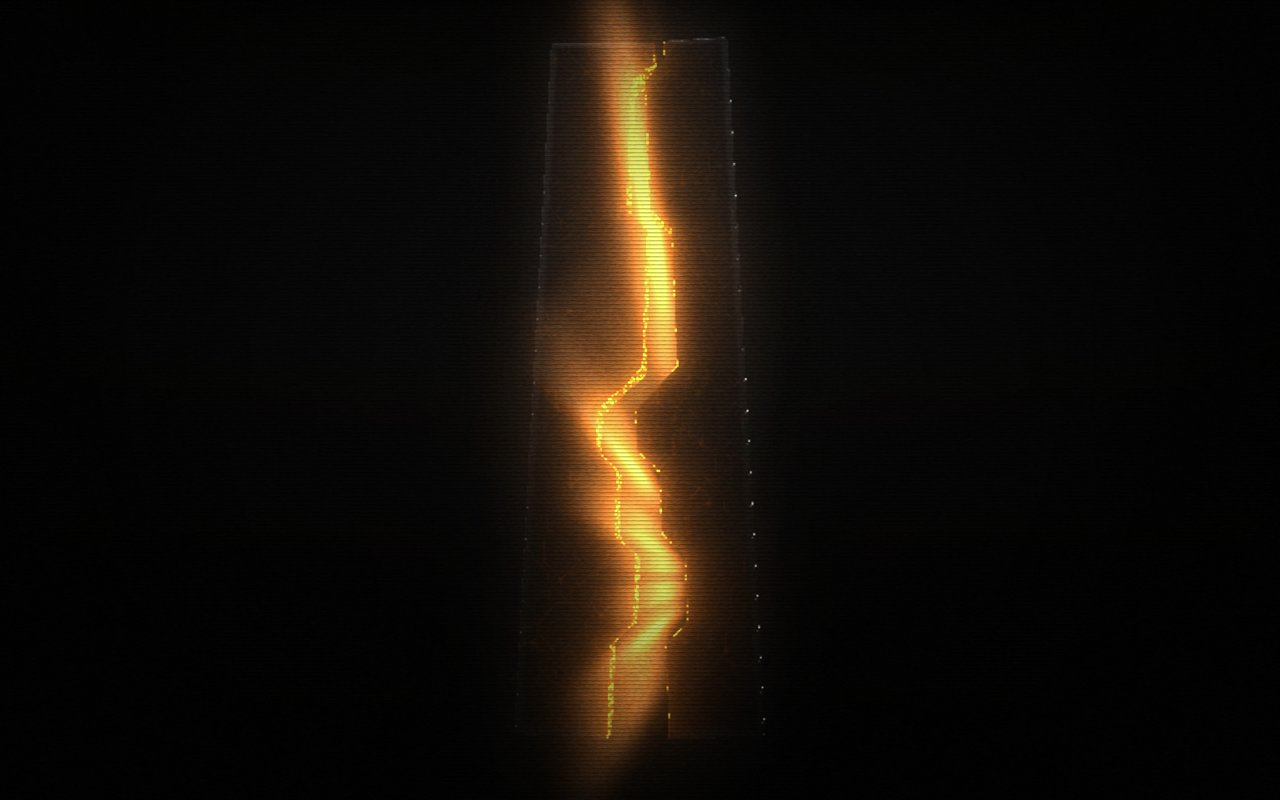
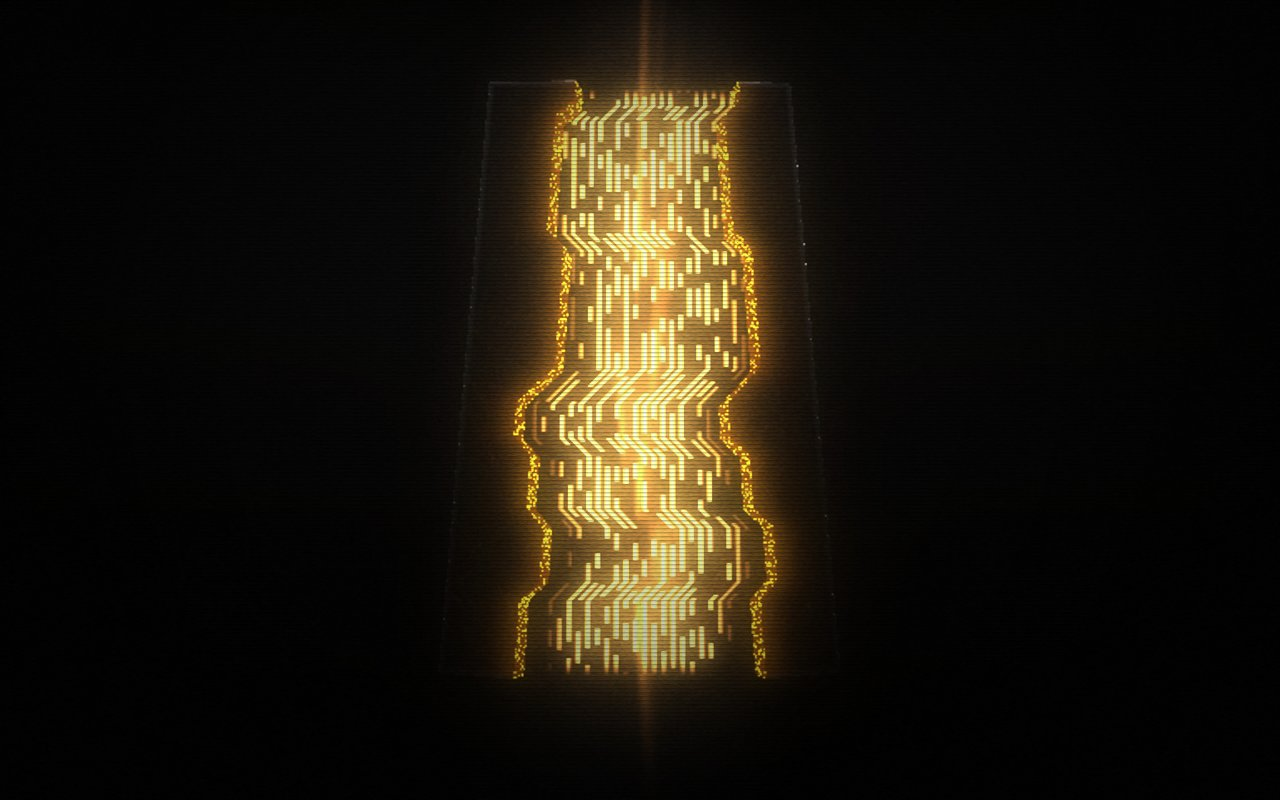
Grieta: apertura más grande (mitades que giran como puertas y cascada de datos en la herida) y miniatura
Claude-Session: https://claude.ai/code/session_01PHyPu7RkDzX2ru9pxXtJdV

Changed region(s): [[0.375, 0.0, 0.625, 1.0]]

diff --git a/lab-31-grieta/index.html b/lab-31-grieta/index.html
@@ -461,7 +461,7 @@ canvas{width:100vw;height:100vh;display:block}
   const FS = `#version 300 es
   precision highp float; in vec2 vUv; out vec4 o;
   uniform vec2 uRes, uShift; uniform vec3 uCam, uTgt, uB;
-  uniform float uSpot, uFov, uSep, uTilt, uRot, uMainY, uMainI, uGlow, uGap, uKey, uEnvA, uSeed, uTime, uFog;
+  uniform float uYaw, uSpot, uFov, uSep, uTilt, uRot, uMainY, uMainI, uGlow, uGap, uKey, uEnvA, uSeed, uTime, uFog;
   const vec3 AMB = vec3(1.0, 0.42, 0.05);
   float tri(float x){ return abs(fract(x) - 0.5) * 4. - 1.; }
   float hj(float i){ return fract(sin(i * 127.1 + 3.7) * 43758.5453); }
@@ -471,7 +471,7 @@ canvas{width:100vw;height:100vh;display:block}
   mat2 rot(float a){ float c = cos(a), s = sin(a); return mat2(c, -s, s, c); }
   vec3 toObj(vec3 p){ p.xz = rot(uRot) * p.xz; return p; }
   // dos mitades separadas por la grieta principal (zigzag). Devuelve dist, y en id: 0 piedra, 1 cara interior (fundida)
-  vec3 halfP(vec3 p, float sgn){ vec3 q = p - vec3(sgn * uSep, 0., 0.); q.xy = rot(sgn * uTilt) * q.xy; return q; }
+  vec3 halfP(vec3 p, float sgn){ vec3 q = p - vec3(sgn * uSep, 0., 0.); q.xz = rot(-sgn * uYaw) * q.xz; q.xy = rot(sgn * uTilt) * q.xy; return q; }
   float mapO(vec3 p, out float id, out vec3 qr){
     vec3 qa = halfP(p, -1.), qb = halfP(p, 1.);
     float ba = sdBox(qa, uB - 0.018) - 0.018, bb = sdBox(qb, uB - 0.018) - 0.018;
@@ -530,7 +530,7 @@ canvas{width:100vw;height:100vh;display:block}
     // niebla: haces de luz que salen por las grietas (y por la herida abierta)
     {
       // limita la marcha a una caja alrededor del monolito
-      vec3 bb = vec3(uB.x + 1.6 + uSep, 7.5, 2.4);
+      vec3 bb = vec3(uB.x + 1.6 + uSep * 1.6, 7.5, 3.2);
       vec3 inv = 1. / rd2, t0 = (-bb - ro2) * inv, t1 = (bb - ro2) * inv;
       vec3 tmn = min(t0, t1), tmx = max(t0, t1);
       float ta = max(max(tmn.x, tmn.y), max(tmn.z, 0.)), tb = min(min(tmx.x, tmx.y), min(tmx.z, tHit));
@@ -562,13 +562,31 @@ canvas{width:100vw;height:100vh;display:block}
           if (uGap > 0.001 && abs(s.y) < uB.y + 0.05) {
             float dx = abs(s.x - jag(s.y));
             float zz = max(az, 0.);
-            float wdt = uSep * (1. + zz * 0.12) + 0.003;
-            float sheet = smoothstep(wdt, wdt * 0.15, dx) * exp(-zz * 0.55) * smoothstep(uB.y + 0.05, uB.y - 0.2, abs(s.y));
+            float wdt = uSep * (0.85 + zz * 0.35) + 0.003;
+            float sheet = (smoothstep(wdt, wdt * 0.3, dx) * 0.11 / (0.2 + uSep) * 0.2 + smoothstep(0.012 + uSep * 0.04, 0., dx) * 0.55) * exp(-zz * 0.42) * smoothstep(uB.y + 0.25, uB.y - 0.3, abs(s.y));
+            float colb = 0.55 + 0.45 * step(0.35, fract(sin(floor((s.x - jag(s.y)) / 0.03) * 91.7 + floor(uTime * 5.)) * 4375.5));
+            sheet *= mix(1., colb * colb, smoothstep(0.015, 0.06, dx));
+
             float band = 0.55 + 0.45 * step(0.4, fract(sin(floor(s.y * 40. - uTime * 6.) * 78.233) * 4375.5));
-            acc += mix(AMB, vec3(1., 0.75, 0.45), smoothstep(wdt * 0.5, 0., dx)) * sheet * uGap * 0.7 * band;
+            acc += mix(AMB, vec3(1., 0.78, 0.5), 0.35) * sheet * uGap * 0.7 * band;
           }
         }
         col += acc * dt * uFog * 14.;
+      }
+    }
+    // cortina de datos: plano z=0 entre las dos mitades (columnas de luz que corren)
+    if (uGap > 0.001 && abs(rd2.z) > 1e-4) {
+      float tz = -ro2.z / rd2.z;
+      if (tz > 0. && tz < tHit) {
+        vec3 pz = ro2 + rd2 * tz; float dx = pz.x - jag(pz.y);
+        if (abs(dx) < uSep * 0.95 && abs(pz.y) < uB.y) {
+          float ci = floor(dx / 0.055); float cx = fract(dx / 0.055);
+          float ln = smoothstep(0.32, 0.12, abs(cx - 0.5));
+          float sp = 1.5 + 4. * fract(sin(ci * 7.13) * 99.1);
+          float sg2 = step(0.42, fract(sin(floor(pz.y / 0.09 - uTime * sp) * 17.3 + ci * 91.7) * 4375.5));
+          float edgeF = smoothstep(uSep * 0.95, uSep * 0.6, abs(dx)) * smoothstep(uB.y, uB.y - 0.12, abs(pz.y));
+          col += mix(AMB, vec3(1., 0.8, 0.55), 0.4 * sg2 * ln) * (0.05 + 2.6 * ln * sg2) * uGap * edgeF;
+        }
       }
     }
     if (hit) {
@@ -714,7 +732,8 @@ canvas{width:100vw;height:100vh;display:block}
       const CR = cracks(t), M = mainY(t);
       // apertura: lenta, pesada (no explota: se abre)
       const op = a >= 0 ? e.out(clamp(a / 6.5)) : 0;
-      const sep = a >= 0 ? 0.003 + 0.13 * op : 0;
+      const sep = a >= 0 ? 0.003 + 0.07 * e.outExpo(clamp(a / 0.35)) + 0.62 * op : 0;
+      const yaw = a >= 0 ? 0.42 * e.inOut(clamp((a - 0.4) / 5.5)) : 0;
       let pulse = 0;
       for (const p of PULSE) { if (p.t > t) break; pulse = Math.max(pulse, p.s * Math.exp(-(t - p.t) * 8)); }
       const gap = a >= 0 ? (1.4 * Math.exp(-a * 1.6) + 0.7 + 0.5 * pulse) * fade : 0;
@@ -724,8 +743,8 @@ canvas{width:100vw;height:100vh;display:block}
       const glow = cut ? 0 : (a >= 0 ? 0.25 * Math.exp(-a * 0.8) : (0.75 + 0.35 * ten) * (1 + 0.35 * ck)) * fade;
       // cámara: macro sobre la cara → revela el monolito → frontal en la apertura
       const az = kf([[0, 0.25], [3, 0.55], [8, 0.9], [T.cut, 1.15], [T.rupt, 0.1], [T.sting, -0.25]], t);
-      const R = kf([[0, 1.0], [2.5, 1.6], [7, 4.2], [T.cut, 3.4], [T.rupt, 6.2], [T.rupt + 0.8, 5.6], [T.sting, 8.2]], t);
-      const y = kf([[0, 0.55], [3, 0.2], [8, -1.2], [T.cut, -1.4], [T.rupt, -1.1], [T.sting, -0.5]], t);
+      const R = kf([[0, 1.0], [2.5, 1.6], [7, 4.2], [T.cut, 3.4], [T.rupt, 6.2], [T.rupt + 0.8, 5.8], [T.sting, 10.5]], t);
+      const y = kf([[0, 0.55], [3, 0.2], [8, -1.2], [T.cut, -1.4], [T.rupt, -1.1], [T.sting, -0.9]], t);
       const ty = kf([[0, 0.7], [3, 0.55], [8, 0.35], [T.cut, 0.3], [T.rupt, 0.15], [T.sting, 0.2]], t);
       let shk = a > 0 && a < 1 ? 0.06 * Math.exp(-a * 4) : 0; shk += 0.012 * ten * ten * (t < T.cut ? 1 : 0) + (M.hot * 0.02 * (t < T.cut ? 1 : 0));
       const cam = [Math.sin(az) * R, y, Math.cos(az) * R];
@@ -740,7 +759,7 @@ canvas{width:100vw;height:100vh;display:block}
       gl.uniform2f(U.uRes, RW, RH); gl.uniform2f(U.uShift, 0, (H / 2 - VL.fy(g.cy)) / H);
       gl.uniform3f(U.uCam, ...cam); gl.uniform3f(U.uTgt, ...tg); gl.uniform3f(U.uB, ...B);
       gl.uniform1f(U.uFov, W > H ? 0.72 : 0.8);
-      gl.uniform1f(U.uSep, sep); gl.uniform1f(U.uTilt, 0.05 * op); gl.uniform1f(U.uRot, 0.05 * Math.sin(t * 0.21));
+      gl.uniform1f(U.uSep, sep); gl.uniform1f(U.uTilt, 0.07 * op); gl.uniform1f(U.uYaw, yaw); gl.uniform1f(U.uRot, 0.05 * Math.sin(t * 0.21));
             gl.uniform1f(U.uGlow, glow); gl.uniform1f(U.uGap, gap);
       gl.uniform1f(U.uKey, fade * (cut ? 0.25 : 1)); gl.uniform1f(U.uEnvA, 0.03 * t); gl.uniform1f(U.uFog, 0.07); gl.uniform1f(U.uSpot, fade * (cut ? 0 : a >= 0 ? 0.35 : 1));
       gl.uniform1f(U.uSeed, (frame % 64) * 0.137); gl.uniform1f(U.uTime, t);
